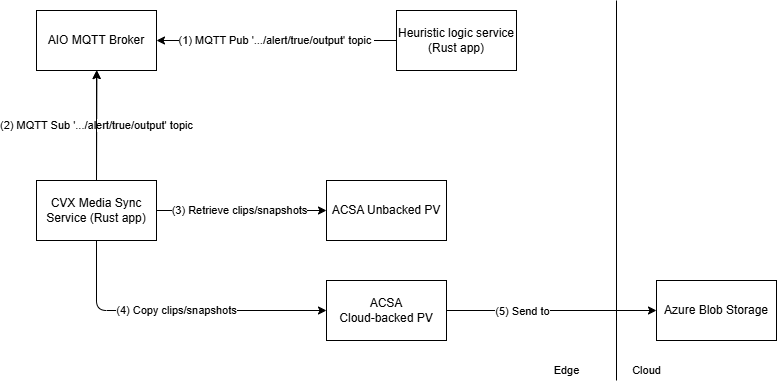
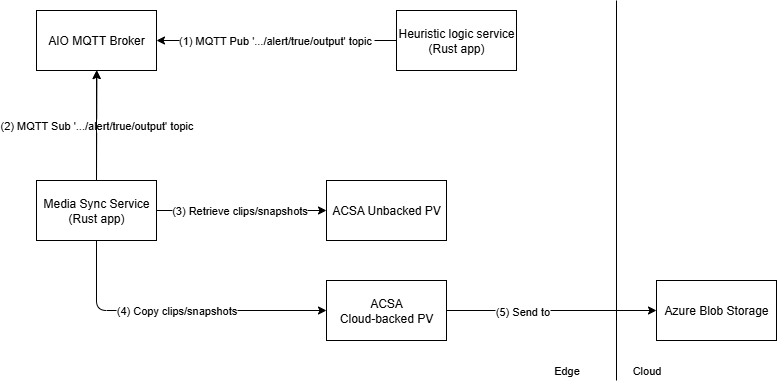
Merged PR 435: fix(docs): Remove CVX references
- removed cvx from diagrams
- removed cvx from application README.md

----
#### AI description  (iteration 1)
#### PR Classification
Documentation update to remove customer-specific references from the docs.

#### PR Summary
This pull request updates the Media Capture Service documentation by replacing customer-specific "cvx" topic references with generic "xyz" references, aligning with the linked work item requirements.
- `/src/500-application/503-media-capture-service/README.md`: Modified the `TRIGGER_TOPICS` configuration to remove "cvx" and use "xyz".
<!-- GitOpsUserAgent=GitOps.Apps.Server.pullrequestcopilot -->

Related work items: #1362

diff --git a/src/500-application/503-media-capture-service/README.md b/src/500-application/503-media-capture-service/README.md
@@ -666,7 +666,7 @@ The Media Capture Service uses environment variables for configuration. These ca
 | `AIO_TLS_CA_FILE`              | Path to the CA certificate file for TLS communication with the MQTT broker.              | `/var/run/certs/ca.crt`                                                      |
 | `AIO_SAT_FILE`                 | Path to the service account token file for MQTT authentication.                          | `/var/run/secrets/tokens/mq-sat`                                             |
 | `RUST_LOG`                     | Logging level for the application.                                                       | `info`                                                                       |
-| `TRIGGER_TOPICS`               | JSON array of MQTT topics to subscribe to for triggering video capture.                  | `["cvx/+/+/+/+/alert/true/output", "cvx/+/+/+/+/camera/analytics_disabled"]` |
+| `TRIGGER_TOPICS`               | JSON array of MQTT topics to subscribe to for triggering video capture.                  | `["xyz/+/+/+/+/alert/true/output", "xyz/+/+/+/+/camera/analytics_disabled"]` |
 | `MEDIA_CLOUD_SYNC_DIR`         | Directory inside the pod where media files or video segments are synced to the cloud.    | `/cloud-sync/media`                                                          |
 | `RTSP_URL`                     | RTSP URL for the live video stream to buffer.                                            | `rtsp://mock-camera-fof.eastus2.azurecontainer.io:8554/live`                 |
 | `VIDEO_FPS`                    | Frames per second for the video buffer.                                                  | `20`                                                                         |